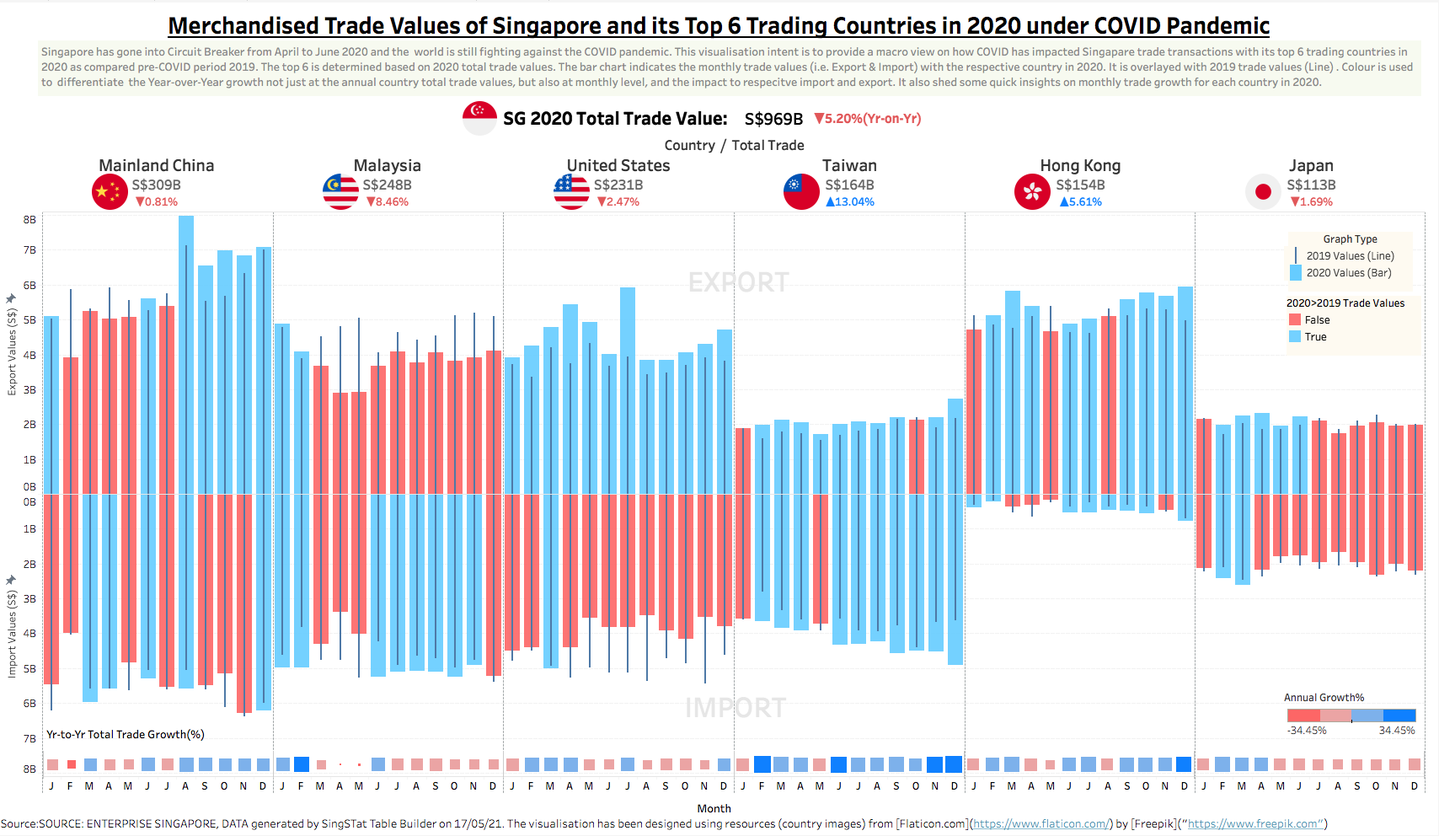
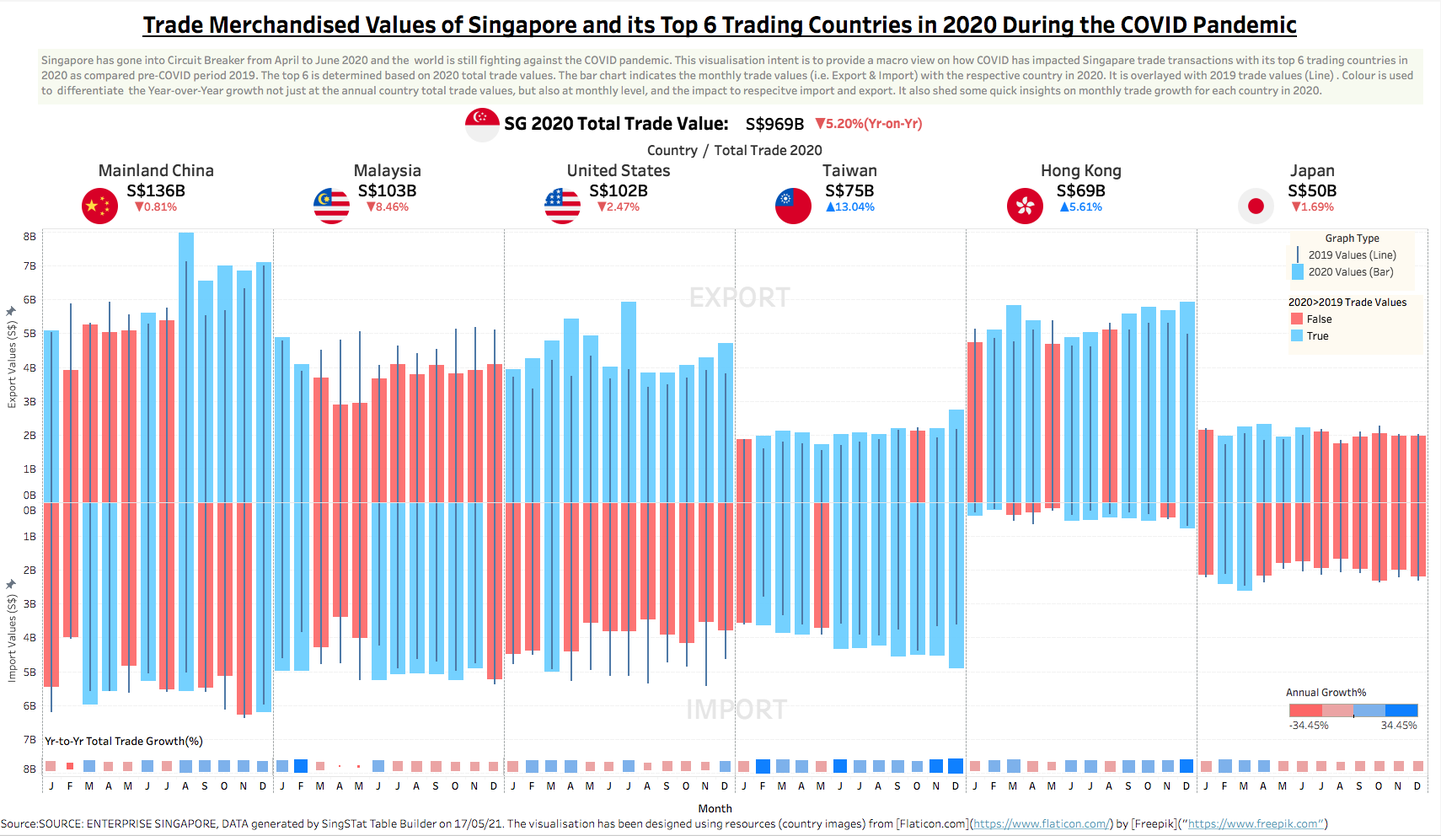
Hopefully it works

diff --git a/_posts/2021-05-25-dataviz-makeover-1/dataviz-makeover-1.html b/_posts/2021-05-25-dataviz-makeover-1/dataviz-makeover-1.html
@@ -116,7 +116,7 @@ code span.wa { color: #5e5e5e; font-style: italic; } /* Warning */
   <!--/radix_placeholder_rmarkdown_metadata-->
   
   <script type="text/json" id="radix-resource-manifest">
-  {"type":"character","attributes":{},"value":["dataviz-makeover-1_files/anchor-4.2.2/anchor.min.js","dataviz-makeover-1_files/bowser-1.9.3/bowser.min.js","dataviz-makeover-1_files/distill-2.2.21/template.v2.js","dataviz-makeover-1_files/jquery-1.11.3/jquery.min.js","dataviz-makeover-1_files/popper-2.6.0/popper.min.js","dataviz-makeover-1_files/tippy-6.2.7/tippy-bundle.umd.min.js","dataviz-makeover-1_files/tippy-6.2.7/tippy-light-border.css","dataviz-makeover-1_files/tippy-6.2.7/tippy.css","dataviz-makeover-1_files/tippy-6.2.7/tippy.umd.min.js","dataviz-makeover-1_files/webcomponents-2.0.0/webcomponents.js","img/DVMO1.png","img/SbS01.png","img/SbS02.png","img/SbS03.png","img/SbS04.png","img/SbS05.png","img/SbS06.png","img/SbS07.png","img/SbS08.png","img/SbS09.png","img/SbS10.png","img/SbS11.png","img/SbS12.png","img/SbS13.png","img/SbS14.png","img/SbS15.png","img/SbS16.png","img/SbS17.png","img/SbS18.png","img/SbS19.png","img/SbS20.png","img/SbS21.png","img/SbS22.png","img/SbS23.png","img/SbS24.png","img/SbS25.png","img/SbS26.png","img/SbS27.png","img/SbS28.png","img/SbS29.png"]}
+  {"type":"character","attributes":{},"value":["dataviz-makeover-1_files/anchor-4.2.2/anchor.min.js","dataviz-makeover-1_files/bowser-1.9.3/bowser.min.js","dataviz-makeover-1_files/distill-2.2.21/template.v2.js","dataviz-makeover-1_files/jquery-1.11.3/jquery.min.js","dataviz-makeover-1_files/popper-2.6.0/popper.min.js","dataviz-makeover-1_files/tippy-6.2.7/tippy-bundle.umd.min.js","dataviz-makeover-1_files/tippy-6.2.7/tippy-light-border.css","dataviz-makeover-1_files/tippy-6.2.7/tippy.css","dataviz-makeover-1_files/tippy-6.2.7/tippy.umd.min.js","dataviz-makeover-1_files/webcomponents-2.0.0/webcomponents.js","img/DVMO1.png","img/DVMO2.jpeg","img/SbS01.png","img/SbS02.png","img/SbS03.png","img/SbS04.png","img/SbS05.png","img/SbS06.png","img/SbS07.png","img/SbS08.png","img/SbS09.png","img/SbS10.png","img/SbS11.png","img/SbS12.png","img/SbS13.png","img/SbS14.png","img/SbS15.png","img/SbS16.png","img/SbS17.png","img/SbS18.png","img/SbS19.png","img/SbS20.png","img/SbS21.png","img/SbS22.png","img/SbS23.png","img/SbS24.png","img/SbS25.png","img/SbS26.png","img/SbS27.png","img/SbS28.png","img/SbS29.png"]}
   </script>
   <!--radix_placeholder_navigation_in_header-->
   <!--/radix_placeholder_navigation_in_header-->
@@ -1488,8 +1488,8 @@ code span.wa { color: #5e5e5e; font-style: italic; } /* Warning */
 </ul></li>
 <li><a href="#alternate-visualisation">3.0 Alternate Visualisation</a><ul>
 <li><a href="#assumption">3.1 Assumption</a></li>
-<li><a href="#clarity-1">3.2 Clarity</a></li>
-<li><a href="#aesthetic-1">3.3 Aesthetic</a></li>
+<li><a href="#clarity-aesthetic">3.2 Clarity &amp; Aesthetic</a></li>
+<li><a href="#concerns">3.3 Concerns</a></li>
 </ul></li>
 <li><a href="#visualisation-design">4.0 Visualisation Design</a></li>
 <li><a href="#step-by-step-guid">5.0 Step-by-Step Guid</a></li>
@@ -1509,9 +1509,9 @@ code span.wa { color: #5e5e5e; font-style: italic; } /* Warning */
 <h1 id="visualisation-critique">2.0 Visualisation Critique</h1>
 <h2 id="clarity">2.1 Clarity</h2>
 <ol type="1">
-<li><p><strong>Generic Title with NO Lead In</strong>. The title does not convey the intent or message behind the visualisation well as it was just a generic title indicating the merchandise trade of the top 6 trading countries for Singapore from 2019 to 2020. There was no lead in to explain as well and the reader do not know how the top 6 were being determined. i.e. total trade value from 2019 to 2020 or ..? It was unclear whether the intent was to provide information on intra and/or inter comparison of trade balance or total trade transaction values over the study period among the countries. Perhaps it could also be used to convey COVID impact on trade transaction among the top 6 trading countries by comparing pre-COVID (2019) to COVID period (2020). Given that it only show import and export values over the study period, we presumed it was more interested in trade balance rather than total values.</p></li>
+<li><p><strong>Generic Title with NO Lead In</strong>. The title does not convey the intent or message behind the visualisation well as it was just a generic title indicating the merchandise trade of the top 6 trading countries for Singapore from 2019 to 2020. There was no lead in to explain as well and the reader do not know how the top 6 were being determined. i.e. total trade value from 2019 to 2020 or ..? It was unclear whether the intent was to provide information on intra and/or inter comparison of trade balance or total trade transaction values over the study period among the countries. Perhaps it could also be used to convey COVID impact on trade transaction among the top 6 trading countries by comparing pre-COVID (2019) to COVID period (2020).</p></li>
 <li><p><strong>Unsynchronised Y Axis</strong>. An unsynchronised Y axis scale for import / export values across all the charts would increase the cognitive load in processing the comparison. By quick view, it was unclear on the ranking order of the top 6 trading countries. It was also difficult to discern the trade balance across the study period for the respective country to Singapore. E.g. Hong Kong export values seemed to be higher than its import for selected 2019 period. However, the truth was that Hong Kong import was always higher than the export and the misleading perspective was caused by different Y axis scale.</p></li>
-<li><p><strong>Inconsistent X Axis</strong>. The lack of minor markings or gridlines for the X axis have increased the difficulties in determining the exact import/export values over time. e.g. import values for Oct 2020. It was also interesting to observe that the respective country graph seemed to be of different width from one another even though they (less Japan) had the same study period. Additional confusion was created where Japan has a shorter period as compared to the rest. It made one wonder whether there were no values during the missing period and what were the start and end periods. Thus, eventually, what the charts were trying to compare with a different time period.</p></li>
+<li><p><strong>Inconsistent X Axis</strong>. The lack of minor markings or grid lines for the X axis have increased the difficulties in determining the exact import/export values over time. e.g. import values for Oct 2020. It was also interesting to observe that the respective country graph seemed to be of different width from one another even though they (less Japan) had the same study period. Additional confusion was created where Japan has a shorter period as compared to the rest. It made one wonder whether there were no values during the missing period and what were the start and end periods. Thus, eventually, what the charts were trying to compare with a different time period.</p></li>
 <li><p><strong>Area or Bar Chart</strong>. Even though time was a continuous variable, given the data points was collated monthly rather than daily, the suitability of an area chart was put in question. i.e would a bar chart at monthly interval be better. Nonetheless, this could be debatable. Thus, from the chart, it was difficult to determine the exact import and export values at specific time period. The X axis lacked the minor marking either by quarterly or monthly. As marking on yearly basis only would pose difficulties to correlate the values across both axes. Moreover, such marking would help to ease the corelation of observed trending over specific events occurred in that time period.</p></li>
 </ol>
 <h2 id="aesthetic">2.2 Aesthetic</h2>
@@ -1522,15 +1522,27 @@ code span.wa { color: #5e5e5e; font-style: italic; } /* Warning */
 </ol>
 <h1 id="alternate-visualisation">3.0 Alternate Visualisation</h1>
 <p>The proposed alternative design is as follow:</p>
+<center>
+<img src="img/DVMO2.jpeg" title="fig:" style="width:100.0%" alt="Figure3.1. Proposed Visualisation Design." />
+</center>
 <h2 id="assumption">3.1 Assumption</h2>
-<p>The intention is to provide insights on the marco view for total trade transaction values for Singapore and it top 6 trading countries in 2020 as compared to 2019. The visualisation will focus on Year-over-Year growth by comparing on total trade values, respective import and export values in 2020 baseline to 2019. Trend lines will might also be derived but it will not focus on driving insights on trade balance with individual countries.</p>
-<h2 id="clarity-1">3.2 Clarity</h2>
-<h2 id="aesthetic-1">3.3 Aesthetic</h2>
+<p>The intention is to provide marco view in the total trade transaction values and growth for Singapore and it top 6 trading countries in 2020 based line against 2019 for Year-over-Year (Y-o-Y) comparison. It shall also ease the understanding on growth at the export and import values for each country. Trend lines over 2020 might also be derived. Nonetheless. the visualisaiton will not focus on insight for on trade balance with individual countries so not to make it too clutter.</p>
+<h2 id="clarity-aesthetic">3.2 Clarity &amp; Aesthetic</h2>
+<p>Meaningful title and lead in will be used in the visualisation. The axes will also be synchronised when two variables are used. Vertical Bar chart based on monthly import and export values. To create symmetrical along X axis by fixing the same end point for Y axis. The base chart be an rotated 90 pyramid bar chart. Given it is an rotated pyramid chart, Export will be position above the X axis where Import will be below. Rationale is than more export will create trade surplus and vice verse. The main chart will show 2020 trade values i.e. Bar where the 2019 values will be overlay by using a smaller bar i.e vertical link. Inking will be done to ease cognitive load in identify “Export” and “Import” areas. The top 6 will also be arranged in a descending order to study the impact across them. Total trade values and growth parameters will also be inked on the chart. Suitable colour contrast, symbol and its size will also be used to ease the cognitive load in processing 2019 vs 2020 trade values, negative and positive growth / impact.</p>
+<h2 id="concerns">3.3 Concerns</h2>
+<ol type="1">
+<li><p><strong>Association with Export and Import Location</strong>. It has been a long deliberation whether it should be rotated, traditional pyramid chart with time line in the Y axis and Import/Export on the X axis or stack bar or area chart. The concern on using pyramid chart has been that viewer might quickly associated it with a population chart and it cognitive difficult to read. Concern on rotated pyramid chart will be why import is a negative value which could be counter intuitive. The negative about pyramid chart is that one cannot really a quick overview on the total trade value at respective month as compared to stack chart. Eventually, decided on rotated pyramid chart. Could use different colours for bar chart to connote Import vs Export but worried it could be too colourful. Eventually, other than axis naming, explain in lead in etc, inking of “Export” and “Import” words in the chart is also adopted.</p></li>
+<li><p><strong>Confused over 2019 vs 2020 Values</strong>. There are too many parameters to play in this visualisation. The main variable shall be 2020 but 2019 is important to determine Y-o-Y growth rate and impact. Hopefully, different symbol, colour contrast and legend should ease the association.</p></li>
+<li><p><strong>Information Overload</strong>. To avoid this, attempt to design in 4 layers across the chart.</p>
+<ul>
+<li>First Layer is the title with lead in to explain the visualisation intent.</li>
+<li>Second Layer: Marco total trade value and Y-o-Y growth for Singapore and the top 6 countries. (On hindsight, should add the percentage of country trade values to total Singapore trade)</li>
+<li>Third Layer. 2020 Import and Export values for each country overlay with 2019 values. Intention is to show macro view on impact to growth rate for respective value.</li>
+<li>Fourth Layer. Y-o-Y growth for total trade values at monthly level for each country. Understand broad trend line on growth rate over the month in 2020 for each country.</li>
+</ul></li>
+</ol>
 <h1 id="visualisation-design">4.0 Visualisation Design</h1>
 <p>The final visualisation design can be found on <a href="https://public.tableau.com/app/profile/tantiger/viz/DataVizM1/Dashboard1">here</a> in Tableau Public.</p>
-<center>
-<img src="img/DVMO2.png" title="fig:" style="width:100.0%" alt="*Figure4.1. Proposed Visualisation Design." />
-</center>
 <h1 id="step-by-step-guid">5.0 Step-by-Step Guid</h1>
 <table>
 <colgroup>
@@ -1624,7 +1636,7 @@ code span.wa { color: #5e5e5e; font-style: italic; } /* Warning */
 <tr class="even">
 <td>16</td>
 <td>Sort the “Country” based on total trade value in a descending order by clicking the “Country” dimension and select the “Sort…” in the drop down, select the parameters based on the displayed image. This is to allow quick visual on the rank order for top 6. It is verified that the similar descending order regardless of period i.e. (2019+2020) or (2020)</td>
-<td><img src="img/SbS15.png" style="width:160.0%" /></td>
+<td><img src="img/SbS15.png" style="width:100.0%" /></td>
 </tr>
 <tr class="odd">
 <td>17</td>
@@ -1663,7 +1675,7 @@ code span.wa { color: #5e5e5e; font-style: italic; } /* Warning */
 </tr>
 <tr class="even">
 <td>24</td>
-<td>Download the country flag icon from the internet and save it in the directory:Tableau Repository. (Need to create flag folder) Drag the “Country” into Columns shelf in a new sheet. At Marks shelf, change the chart into “Shape” and drag “Country” into “Shapes”. Click on the “Shapes” and assigned the respective flag icon to the variable. Repeat for SG flag by using “Total Merchandised” (The visualisation has been designed using resources (country images) from <a href="https://www.flaticon.com/">Flaticon.com</a> by <a href="%22https://www.freepik.com%22">Freepik</a></td>
+<td>Download the country flag icon from the internet and save it in the directory:(“My Tableau Repository”). (Need to create flag folder) Drag the “Country” into Columns shelf in a new sheet. At Marks shelf, change the chart into “Shape” and drag “Country” into “Shapes”. Click on the “Shapes” and assigned the respective flag icon to the variable. Repeat for SG flag by using “Total Merchandised” (The visualisation has been designed using resources (country images) from <a href="https://www.flaticon.com/">Flaticon.com</a> by <a href="%22https://www.freepik.com%22">Freepik</a></td>
 <td><img src="img/SbS23.png" style="width:160.0%" /></td>
 </tr>
 <tr class="odd">
@@ -1673,7 +1685,7 @@ code span.wa { color: #5e5e5e; font-style: italic; } /* Warning */
 </tr>
 <tr class="even">
 <td>26</td>
-<td>Create the calulated field for “Annual Growth” a logic measure to determine whether Trade Value in 2020 is more than Trade Value in 2019. Then calculated field for “Annual Growth%” reference to the image. The purpose is to compute annual Year-over-Year growth for each country.</td>
+<td>Create the calulated field for “Annual Growth” a logic measure to determine whether Trade Value in 2020 is more than Trade Value in 2019. Then calculated field for “Annual Growth%” reference to the image. The purpose is to compute annual Y-o-Y growth for each country.</td>
 <td><img src="img/SbS25.png" style="width:160.0%" /></td>
 </tr>
 <tr class="odd">
@@ -1688,7 +1700,7 @@ code span.wa { color: #5e5e5e; font-style: italic; } /* Warning */
 </tr>
 <tr class="odd">
 <td>29</td>
-<td>Create a Year-over-Year Growth for total trade values on each month in 2020. On the new sheet, drag “Country” and “Date” into Columns Shelf with the required filter and setting to month. drag “Annual Growth%” into Marks Shelf Colour and Size respectively as Measure. This is to create the visual cue for negative / positive values with size to indicate the difference magnitude.</td>
+<td>Create a Y-o-Y Growth for total trade values on each month in 2020. On the new sheet, drag “Country” and “Date” into Columns Shelf with the required filter and setting to month. drag “Annual Growth%” into Marks Shelf Colour and Size respectively as Measure. This is to create the visual cue for negative / positive values with size to indicate the difference magnitude.</td>
 <td><img src="img/SbS28.png" style="width:160.0%" /></td>
 </tr>
 <tr class="even">
@@ -1704,15 +1716,25 @@ code span.wa { color: #5e5e5e; font-style: italic; } /* Warning */
 </center>
 <p>The derived insights are:</p>
 <ol type="1">
-<li><p><strong>Mostly Negative in Growth</strong>. It is cleared that the Year-over-Year growth for the total trade values for SG is negative (i.e-5.20%) followed by it main trading partners in descending order Malaysia (-8.46%), USA (-2.47%), Japan(-1.69%) and China (-0.81%). Nonetheless it is surprising that SG has strong positive growth with Taiwan (+13.04%) and Hong Kong (+5.61%). Moreover, the negative growth in China is deemed to be low given it the country is hit with pandenmic in early 2020.</p></li>
-<li><p><strong>Uneven Impact to Import and Expore Values for the Top 6 Countries</strong>.</p></li>
-</ol>
+<li><p><strong>Mostly Negative in Growth</strong>. The Y-o-Y growth for the total trade values for SG is negative (i.e-5.20%) followed by it main trading partners in descending order Malaysia (-8.46%), USA (-2.47%), Japan(-1.69%) and China (-0.81%). Nonetheless it is surprising that SG has strong positive growth with Taiwan (+13.04%) and Hong Kong (+5.61%). Moreover, the negative growth in China is deemed to be low given the country has been hit with COVID in early 2020.</p></li>
+<li><p><strong>Uneven Impact to Monthly Import and Export Values for the Top 6 Countries</strong>.</p>
 <ul>
-<li>SG trade with China is affected at early of 2020 (i.e in the 1st 6mths)</li>
-</ul>
+<li><p><strong>Front End Negative Impact</strong>. China trade is affected generally a bit more on export from Singapore than import during the first 6 mths of 2020. Thereafter, negative import growth some of the remaining months but the last 6mths has seen relatively strong trade growth due to higher export from Singapore.</p></li>
+<li><p><strong>Sharp Point Negative Impact</strong>. The trade between Singapore and Malaysia have been badly hit during Mar to May 2020. This has been the period where both implemented country lock down such that direct land trade via Johor has been affected. As Malaysia has been implementing a series lock down even after that, one can observe its continue impact to Export from Singapore to Malaysia. Overall trade growth has been negative in the last 6 mths of 2020.</p></li>
+<li><p><strong>Lop-Sided Impact</strong>. Generally, Y-o-Y import growth for Singapore to USA has generally been negative, while positive for export. Nonetheless, the overall trade growth has been negative due to higher negative growth in import which offset positive growth in export.</p></li>
+<li><p><strong>Limited Impact</strong>. Interesting, both Taiwan and Hong Kong have mainly experienced positive growth with Singapore. In 2020, both countries have generally been known to have relative small number of COVID cases.</p></li>
+<li><p><strong>Tail End Negative Impact</strong>. Generally, the fluctuation in trade values for Japan has been less drastic. Nonetheless, both trade values experience negative growth in the last 6 mths of 2020. Somehow it might be correlated to the progressive increase in the number of COVID cases in later part of the year.</p></li>
+</ul></li>
+<li><p><strong>Trending for Trade Growth in 2020 base on Monthly Trade Values</strong>. From the “Y-o-Y Growth” chart at the bottom of the visualisation, one can use colour and size of the square to have a macro view on the total trade trending between Singapore and the each country. Both Taiwan and Hong Kong have seemed to be on a growing trend based on the darker blue and bigger square. China has also progressive growth after the initial dip. Japan trade growth has been dropping steadily. Similar to Malaysia less the high negative growth during Singapore Circuit Breaker. USA has been a roller coaster ride but generally more negative than positive. Actually, it will be interesting to see how the trending will carry on into 2021 where pandemic has generally been control in most but no all, but some been hit with second or third wave of COVID attack.</p></li>
+</ol>
 <h1 id="conclusion">7.0 Conclusion</h1>
+<p>The visualisation has provided a macro view of total merchandised trade values for SG and its top 6 trading partner. A quick insights on the Y-o-Y growth on annual trade values, import and export values for each trading country with SG under the pandemic COVID 19. It also shed marco insight on monthly growth in 2020 showing signs of recovery for selected countries. Nonetheless, the future is still uncertain in this pandemic era as country about subsequent COVID attack. Effectively, trade economics can be affected by numerous factors and thus without deep research,one cannot confidently concluded the negative growth can be fully attributed to the pandemic while selected incidents with Malaysia are attributable.</p>
 <h1 id="recommendation">8.0 Recommendation</h1>
-<p>SOURCE: ENTERPRISE SINGAPORE, DATA generated by SingSTat Table Builder on 17/05/21</p>
+<p>Future exploration to enhance understanding on trade growth can focus on 2 areas as follows:</p>
+<ol type="1">
+<li><p><strong>Micro View on Merchandised Trade</strong>. To research on which types of goods and services have resulted in the negative or positive growth with respective country import and export values. With the deeper understanding in quantitative approach, the ability to correlate the insights and discern whether the impact on growth could be attributable to COVID or other international policy or economics dynamics.</p></li>
+<li><p><strong>Causation to Growth in Merchandised Trade</strong>. COVID 19 can be a causation to the growth insights discerned from the visualisation at the macro level. However, other political or economical factors can also have impacted how good and services flow globally. eg Trade wars between US and China, Hong Kong political situation, Taiwan growth in electronic supply chain etc could have affected global trade flow. Need to have deeper research into the qualitative area to understand the impact to Singapore Trade.</p></li>
+</ol>
 <div class="sourceCode" id="cb1"><pre class="sourceCode r distill-force-highlighting-css"><code class="sourceCode r"></code></pre></div>
 <!--radix_placeholder_article_footer-->
 <!--/radix_placeholder_article_footer-->

diff --git a/_site/posts/2021-05-25-dataviz-makeover-1/index.html b/_site/posts/2021-05-25-dataviz-makeover-1/index.html
@@ -117,7 +117,7 @@ code span.wa { color: #5e5e5e; font-style: italic; } /* Warning */
 <!--/radix_placeholder_rmarkdown_metadata-->
   
   <script type="text/json" id="radix-resource-manifest">
-  {"type":"character","attributes":{},"value":["dataviz-makeover-1_files/anchor-4.2.2/anchor.min.js","dataviz-makeover-1_files/bowser-1.9.3/bowser.min.js","dataviz-makeover-1_files/distill-2.2.21/template.v2.js","dataviz-makeover-1_files/jquery-1.11.3/jquery.min.js","dataviz-makeover-1_files/popper-2.6.0/popper.min.js","dataviz-makeover-1_files/tippy-6.2.7/tippy-bundle.umd.min.js","dataviz-makeover-1_files/tippy-6.2.7/tippy-light-border.css","dataviz-makeover-1_files/tippy-6.2.7/tippy.css","dataviz-makeover-1_files/tippy-6.2.7/tippy.umd.min.js","dataviz-makeover-1_files/webcomponents-2.0.0/webcomponents.js","img/DVMO1.png","img/SbS01.png","img/SbS02.png","img/SbS03.png","img/SbS04.png","img/SbS05.png","img/SbS06.png","img/SbS07.png","img/SbS08.png","img/SbS09.png","img/SbS10.png","img/SbS11.png","img/SbS12.png","img/SbS13.png","img/SbS14.png","img/SbS15.png","img/SbS16.png","img/SbS17.png","img/SbS18.png","img/SbS19.png","img/SbS20.png","img/SbS21.png","img/SbS22.png","img/SbS23.png","img/SbS24.png","img/SbS25.png","img/SbS26.png","img/SbS27.png","img/SbS28.png","img/SbS29.png"]}
+  {"type":"character","attributes":{},"value":["dataviz-makeover-1_files/anchor-4.2.2/anchor.min.js","dataviz-makeover-1_files/bowser-1.9.3/bowser.min.js","dataviz-makeover-1_files/distill-2.2.21/template.v2.js","dataviz-makeover-1_files/jquery-1.11.3/jquery.min.js","dataviz-makeover-1_files/popper-2.6.0/popper.min.js","dataviz-makeover-1_files/tippy-6.2.7/tippy-bundle.umd.min.js","dataviz-makeover-1_files/tippy-6.2.7/tippy-light-border.css","dataviz-makeover-1_files/tippy-6.2.7/tippy.css","dataviz-makeover-1_files/tippy-6.2.7/tippy.umd.min.js","dataviz-makeover-1_files/webcomponents-2.0.0/webcomponents.js","img/DVMO1.png","img/DVMO2.jpeg","img/SbS01.png","img/SbS02.png","img/SbS03.png","img/SbS04.png","img/SbS05.png","img/SbS06.png","img/SbS07.png","img/SbS08.png","img/SbS09.png","img/SbS10.png","img/SbS11.png","img/SbS12.png","img/SbS13.png","img/SbS14.png","img/SbS15.png","img/SbS16.png","img/SbS17.png","img/SbS18.png","img/SbS19.png","img/SbS20.png","img/SbS21.png","img/SbS22.png","img/SbS23.png","img/SbS24.png","img/SbS25.png","img/SbS26.png","img/SbS27.png","img/SbS28.png","img/SbS29.png"]}
   </script>
   <!--radix_placeholder_navigation_in_header-->
 <meta name="distill:offset" content="../.."/>
@@ -2419,8 +2419,8 @@ d-appendix d-footnote-list a.footnote-backlink {
 </ul></li>
 <li><a href="#alternate-visualisation">3.0 Alternate Visualisation</a><ul>
 <li><a href="#assumption">3.1 Assumption</a></li>
-<li><a href="#clarity-1">3.2 Clarity</a></li>
-<li><a href="#aesthetic-1">3.3 Aesthetic</a></li>
+<li><a href="#clarity-aesthetic">3.2 Clarity &amp; Aesthetic</a></li>
+<li><a href="#concerns">3.3 Concerns</a></li>
 </ul></li>
 <li><a href="#visualisation-design">4.0 Visualisation Design</a></li>
 <li><a href="#step-by-step-guid">5.0 Step-by-Step Guid</a></li>
@@ -2440,9 +2440,9 @@ d-appendix d-footnote-list a.footnote-backlink {
 <h1 id="visualisation-critique">2.0 Visualisation Critique</h1>
 <h2 id="clarity">2.1 Clarity</h2>
 <ol type="1">
-<li><p><strong>Generic Title with NO Lead In</strong>. The title does not convey the intent or message behind the visualisation well as it was just a generic title indicating the merchandise trade of the top 6 trading countries for Singapore from 2019 to 2020. There was no lead in to explain as well and the reader do not know how the top 6 were being determined. i.e. total trade value from 2019 to 2020 or ..? It was unclear whether the intent was to provide information on intra and/or inter comparison of trade balance or total trade transaction values over the study period among the countries. Perhaps it could also be used to convey COVID impact on trade transaction among the top 6 trading countries by comparing pre-COVID (2019) to COVID period (2020). Given that it only show import and export values over the study period, we presumed it was more interested in trade balance rather than total values.</p></li>
+<li><p><strong>Generic Title with NO Lead In</strong>. The title does not convey the intent or message behind the visualisation well as it was just a generic title indicating the merchandise trade of the top 6 trading countries for Singapore from 2019 to 2020. There was no lead in to explain as well and the reader do not know how the top 6 were being determined. i.e. total trade value from 2019 to 2020 or ..? It was unclear whether the intent was to provide information on intra and/or inter comparison of trade balance or total trade transaction values over the study period among the countries. Perhaps it could also be used to convey COVID impact on trade transaction among the top 6 trading countries by comparing pre-COVID (2019) to COVID period (2020).</p></li>
 <li><p><strong>Unsynchronised Y Axis</strong>. An unsynchronised Y axis scale for import / export values across all the charts would increase the cognitive load in processing the comparison. By quick view, it was unclear on the ranking order of the top 6 trading countries. It was also difficult to discern the trade balance across the study period for the respective country to Singapore. E.g. Hong Kong export values seemed to be higher than its import for selected 2019 period. However, the truth was that Hong Kong import was always higher than the export and the misleading perspective was caused by different Y axis scale.</p></li>
-<li><p><strong>Inconsistent X Axis</strong>. The lack of minor markings or gridlines for the X axis have increased the difficulties in determining the exact import/export values over time. e.g. import values for Oct 2020. It was also interesting to observe that the respective country graph seemed to be of different width from one another even though they (less Japan) had the same study period. Additional confusion was created where Japan has a shorter period as compared to the rest. It made one wonder whether there were no values during the missing period and what were the start and end periods. Thus, eventually, what the charts were trying to compare with a different time period.</p></li>
+<li><p><strong>Inconsistent X Axis</strong>. The lack of minor markings or grid lines for the X axis have increased the difficulties in determining the exact import/export values over time. e.g. import values for Oct 2020. It was also interesting to observe that the respective country graph seemed to be of different width from one another even though they (less Japan) had the same study period. Additional confusion was created where Japan has a shorter period as compared to the rest. It made one wonder whether there were no values during the missing period and what were the start and end periods. Thus, eventually, what the charts were trying to compare with a different time period.</p></li>
 <li><p><strong>Area or Bar Chart</strong>. Even though time was a continuous variable, given the data points was collated monthly rather than daily, the suitability of an area chart was put in question. i.e would a bar chart at monthly interval be better. Nonetheless, this could be debatable. Thus, from the chart, it was difficult to determine the exact import and export values at specific time period. The X axis lacked the minor marking either by quarterly or monthly. As marking on yearly basis only would pose difficulties to correlate the values across both axes. Moreover, such marking would help to ease the corelation of observed trending over specific events occurred in that time period.</p></li>
 </ol>
 <h2 id="aesthetic">2.2 Aesthetic</h2>
@@ -2453,15 +2453,27 @@ d-appendix d-footnote-list a.footnote-backlink {
 </ol>
 <h1 id="alternate-visualisation">3.0 Alternate Visualisation</h1>
 <p>The proposed alternative design is as follow:</p>
+<center>
+<img src="img/DVMO2.jpeg" title="fig:" style="width:100.0%" alt="Figure3.1. Proposed Visualisation Design." />
+</center>
 <h2 id="assumption">3.1 Assumption</h2>
-<p>The intention is to provide insights on the marco view for total trade transaction values for Singapore and it top 6 trading countries in 2020 as compared to 2019. The visualisation will focus on Year-over-Year growth by comparing on total trade values, respective import and export values in 2020 baseline to 2019. Trend lines will might also be derived but it will not focus on driving insights on trade balance with individual countries.</p>
-<h2 id="clarity-1">3.2 Clarity</h2>
-<h2 id="aesthetic-1">3.3 Aesthetic</h2>
+<p>The intention is to provide marco view in the total trade transaction values and growth for Singapore and it top 6 trading countries in 2020 based line against 2019 for Year-over-Year (Y-o-Y) comparison. It shall also ease the understanding on growth at the export and import values for each country. Trend lines over 2020 might also be derived. Nonetheless. the visualisaiton will not focus on insight for on trade balance with individual countries so not to make it too clutter.</p>
+<h2 id="clarity-aesthetic">3.2 Clarity &amp; Aesthetic</h2>
+<p>Meaningful title and lead in will be used in the visualisation. The axes will also be synchronised when two variables are used. Vertical Bar chart based on monthly import and export values. To create symmetrical along X axis by fixing the same end point for Y axis. The base chart be an rotated 90 pyramid bar chart. Given it is an rotated pyramid chart, Export will be position above the X axis where Import will be below. Rationale is than more export will create trade surplus and vice verse. The main chart will show 2020 trade values i.e. Bar where the 2019 values will be overlay by using a smaller bar i.e vertical link. Inking will be done to ease cognitive load in identify “Export” and “Import” areas. The top 6 will also be arranged in a descending order to study the impact across them. Total trade values and growth parameters will also be inked on the chart. Suitable colour contrast, symbol and its size will also be used to ease the cognitive load in processing 2019 vs 2020 trade values, negative and positive growth / impact.</p>
+<h2 id="concerns">3.3 Concerns</h2>
+<ol type="1">
+<li><p><strong>Association with Export and Import Location</strong>. It has been a long deliberation whether it should be rotated, traditional pyramid chart with time line in the Y axis and Import/Export on the X axis or stack bar or area chart. The concern on using pyramid chart has been that viewer might quickly associated it with a population chart and it cognitive difficult to read. Concern on rotated pyramid chart will be why import is a negative value which could be counter intuitive. The negative about pyramid chart is that one cannot really a quick overview on the total trade value at respective month as compared to stack chart. Eventually, decided on rotated pyramid chart. Could use different colours for bar chart to connote Import vs Export but worried it could be too colourful. Eventually, other than axis naming, explain in lead in etc, inking of “Export” and “Import” words in the chart is also adopted.</p></li>
+<li><p><strong>Confused over 2019 vs 2020 Values</strong>. There are too many parameters to play in this visualisation. The main variable shall be 2020 but 2019 is important to determine Y-o-Y growth rate and impact. Hopefully, different symbol, colour contrast and legend should ease the association.</p></li>
+<li><p><strong>Information Overload</strong>. To avoid this, attempt to design in 4 layers across the chart.</p>
+<ul>
+<li>First Layer is the title with lead in to explain the visualisation intent.</li>
+<li>Second Layer: Marco total trade value and Y-o-Y growth for Singapore and the top 6 countries. (On hindsight, should add the percentage of country trade values to total Singapore trade)</li>
+<li>Third Layer. 2020 Import and Export values for each country overlay with 2019 values. Intention is to show macro view on impact to growth rate for respective value.</li>
+<li>Fourth Layer. Y-o-Y growth for total trade values at monthly level for each country. Understand broad trend line on growth rate over the month in 2020 for each country.</li>
+</ul></li>
+</ol>
 <h1 id="visualisation-design">4.0 Visualisation Design</h1>
 <p>The final visualisation design can be found on <a href="https://public.tableau.com/app/profile/tantiger/viz/DataVizM1/Dashboard1">here</a> in Tableau Public.</p>
-<center>
-<img src="img/DVMO2.png" title="fig:" style="width:100.0%" alt="*Figure4.1. Proposed Visualisation Design." />
-</center>
 <h1 id="step-by-step-guid">5.0 Step-by-Step Guid</h1>
 <table>
 <colgroup>
@@ -2555,7 +2567,7 @@ d-appendix d-footnote-list a.footnote-backlink {
 <tr class="even">
 <td>16</td>
 <td>Sort the “Country” based on total trade value in a descending order by clicking the “Country” dimension and select the “Sort…” in the drop down, select the parameters based on the displayed image. This is to allow quick visual on the rank order for top 6. It is verified that the similar descending order regardless of period i.e. (2019+2020) or (2020)</td>
-<td><img src="img/SbS15.png" style="width:160.0%" /></td>
+<td><img src="img/SbS15.png" style="width:100.0%" /></td>
 </tr>
 <tr class="odd">
 <td>17</td>
@@ -2594,7 +2606,7 @@ d-appendix d-footnote-list a.footnote-backlink {
 </tr>
 <tr class="even">
 <td>24</td>
-<td>Download the country flag icon from the internet and save it in the directory:Tableau Repository. (Need to create flag folder) Drag the “Country” into Columns shelf in a new sheet. At Marks shelf, change the chart into “Shape” and drag “Country” into “Shapes”. Click on the “Shapes” and assigned the respective flag icon to the variable. Repeat for SG flag by using “Total Merchandised” (The visualisation has been designed using resources (country images) from <a href="https://www.flaticon.com/">Flaticon.com</a> by <a href="%22https://www.freepik.com%22">Freepik</a></td>
+<td>Download the country flag icon from the internet and save it in the directory:(“My Tableau Repository”). (Need to create flag folder) Drag the “Country” into Columns shelf in a new sheet. At Marks shelf, change the chart into “Shape” and drag “Country” into “Shapes”. Click on the “Shapes” and assigned the respective flag icon to the variable. Repeat for SG flag by using “Total Merchandised” (The visualisation has been designed using resources (country images) from <a href="https://www.flaticon.com/">Flaticon.com</a> by <a href="%22https://www.freepik.com%22">Freepik</a></td>
 <td><img src="img/SbS23.png" style="width:160.0%" /></td>
 </tr>
 <tr class="odd">
@@ -2604,7 +2616,7 @@ d-appendix d-footnote-list a.footnote-backlink {
 </tr>
 <tr class="even">
 <td>26</td>
-<td>Create the calulated field for “Annual Growth” a logic measure to determine whether Trade Value in 2020 is more than Trade Value in 2019. Then calculated field for “Annual Growth%” reference to the image. The purpose is to compute annual Year-over-Year growth for each country.</td>
+<td>Create the calulated field for “Annual Growth” a logic measure to determine whether Trade Value in 2020 is more than Trade Value in 2019. Then calculated field for “Annual Growth%” reference to the image. The purpose is to compute annual Y-o-Y growth for each country.</td>
 <td><img src="img/SbS25.png" style="width:160.0%" /></td>
 </tr>
 <tr class="odd">
@@ -2619,7 +2631,7 @@ d-appendix d-footnote-list a.footnote-backlink {
 </tr>
 <tr class="odd">
 <td>29</td>
-<td>Create a Year-over-Year Growth for total trade values on each month in 2020. On the new sheet, drag “Country” and “Date” into Columns Shelf with the required filter and setting to month. drag “Annual Growth%” into Marks Shelf Colour and Size respectively as Measure. This is to create the visual cue for negative / positive values with size to indicate the difference magnitude.</td>
+<td>Create a Y-o-Y Growth for total trade values on each month in 2020. On the new sheet, drag “Country” and “Date” into Columns Shelf with the required filter and setting to month. drag “Annual Growth%” into Marks Shelf Colour and Size respectively as Measure. This is to create the visual cue for negative / positive values with size to indicate the difference magnitude.</td>
 <td><img src="img/SbS28.png" style="width:160.0%" /></td>
 </tr>
 <tr class="even">
@@ -2635,15 +2647,25 @@ d-appendix d-footnote-list a.footnote-backlink {
 </center>
 <p>The derived insights are:</p>
 <ol type="1">
-<li><p><strong>Mostly Negative in Growth</strong>. It is cleared that the Year-over-Year growth for the total trade values for SG is negative (i.e-5.20%) followed by it main trading partners in descending order Malaysia (-8.46%), USA (-2.47%), Japan(-1.69%) and China (-0.81%). Nonetheless it is surprising that SG has strong positive growth with Taiwan (+13.04%) and Hong Kong (+5.61%). Moreover, the negative growth in China is deemed to be low given it the country is hit with pandenmic in early 2020.</p></li>
-<li><p><strong>Uneven Impact to Import and Expore Values for the Top 6 Countries</strong>.</p></li>
-</ol>
+<li><p><strong>Mostly Negative in Growth</strong>. The Y-o-Y growth for the total trade values for SG is negative (i.e-5.20%) followed by it main trading partners in descending order Malaysia (-8.46%), USA (-2.47%), Japan(-1.69%) and China (-0.81%). Nonetheless it is surprising that SG has strong positive growth with Taiwan (+13.04%) and Hong Kong (+5.61%). Moreover, the negative growth in China is deemed to be low given the country has been hit with COVID in early 2020.</p></li>
+<li><p><strong>Uneven Impact to Monthly Import and Export Values for the Top 6 Countries</strong>.</p>
 <ul>
-<li>SG trade with China is affected at early of 2020 (i.e in the 1st 6mths)</li>
-</ul>
+<li><p><strong>Front End Negative Impact</strong>. China trade is affected generally a bit more on export from Singapore than import during the first 6 mths of 2020. Thereafter, negative import growth some of the remaining months but the last 6mths has seen relatively strong trade growth due to higher export from Singapore.</p></li>
+<li><p><strong>Sharp Point Negative Impact</strong>. The trade between Singapore and Malaysia have been badly hit during Mar to May 2020. This has been the period where both implemented country lock down such that direct land trade via Johor has been affected. As Malaysia has been implementing a series lock down even after that, one can observe its continue impact to Export from Singapore to Malaysia. Overall trade growth has been negative in the last 6 mths of 2020.</p></li>
+<li><p><strong>Lop-Sided Impact</strong>. Generally, Y-o-Y import growth for Singapore to USA has generally been negative, while positive for export. Nonetheless, the overall trade growth has been negative due to higher negative growth in import which offset positive growth in export.</p></li>
+<li><p><strong>Limited Impact</strong>. Interesting, both Taiwan and Hong Kong have mainly experienced positive growth with Singapore. In 2020, both countries have generally been known to have relative small number of COVID cases.</p></li>
+<li><p><strong>Tail End Negative Impact</strong>. Generally, the fluctuation in trade values for Japan has been less drastic. Nonetheless, both trade values experience negative growth in the last 6 mths of 2020. Somehow it might be correlated to the progressive increase in the number of COVID cases in later part of the year.</p></li>
+</ul></li>
+<li><p><strong>Trending for Trade Growth in 2020 base on Monthly Trade Values</strong>. From the “Y-o-Y Growth” chart at the bottom of the visualisation, one can use colour and size of the square to have a macro view on the total trade trending between Singapore and the each country. Both Taiwan and Hong Kong have seemed to be on a growing trend based on the darker blue and bigger square. China has also progressive growth after the initial dip. Japan trade growth has been dropping steadily. Similar to Malaysia less the high negative growth during Singapore Circuit Breaker. USA has been a roller coaster ride but generally more negative than positive. Actually, it will be interesting to see how the trending will carry on into 2021 where pandemic has generally been control in most but no all, but some been hit with second or third wave of COVID attack.</p></li>
+</ol>
 <h1 id="conclusion">7.0 Conclusion</h1>
+<p>The visualisation has provided a macro view of total merchandised trade values for SG and its top 6 trading partner. A quick insights on the Y-o-Y growth on annual trade values, import and export values for each trading country with SG under the pandemic COVID 19. It also shed marco insight on monthly growth in 2020 showing signs of recovery for selected countries. Nonetheless, the future is still uncertain in this pandemic era as country about subsequent COVID attack. Effectively, trade economics can be affected by numerous factors and thus without deep research,one cannot confidently concluded the negative growth can be fully attributed to the pandemic while selected incidents with Malaysia are attributable.</p>
 <h1 id="recommendation">8.0 Recommendation</h1>
-<p>SOURCE: ENTERPRISE SINGAPORE, DATA generated by SingSTat Table Builder on 17/05/21</p>
+<p>Future exploration to enhance understanding on trade growth can focus on 2 areas as follows:</p>
+<ol type="1">
+<li><p><strong>Micro View on Merchandised Trade</strong>. To research on which types of goods and services have resulted in the negative or positive growth with respective country import and export values. With the deeper understanding in quantitative approach, the ability to correlate the insights and discern whether the impact on growth could be attributable to COVID or other international policy or economics dynamics.</p></li>
+<li><p><strong>Causation to Growth in Merchandised Trade</strong>. COVID 19 can be a causation to the growth insights discerned from the visualisation at the macro level. However, other political or economical factors can also have impacted how good and services flow globally. eg Trade wars between US and China, Hong Kong political situation, Taiwan growth in electronic supply chain etc could have affected global trade flow. Need to have deeper research into the qualitative area to understand the impact to Singapore Trade.</p></li>
+</ol>
 <div class="sourceCode" id="cb1"><pre class="sourceCode r distill-force-highlighting-css"><code class="sourceCode r"></code></pre></div>
 <!--radix_placeholder_article_footer-->
 <!--/radix_placeholder_article_footer-->

diff --git a/_site/index.html b/_site/index.html
@@ -2524,9 +2524,7 @@ function init_posts_list() {
 <div class="dt-author">cttanData</div>
 </div>
 </div>
-<div class="thumbnail">
-<img/>
-</div>
+<div class="thumbnail"></div>
 <div class="description">
 <h2>DataViz Makeover 1</h2>
 <div class="dt-tags"></div>
